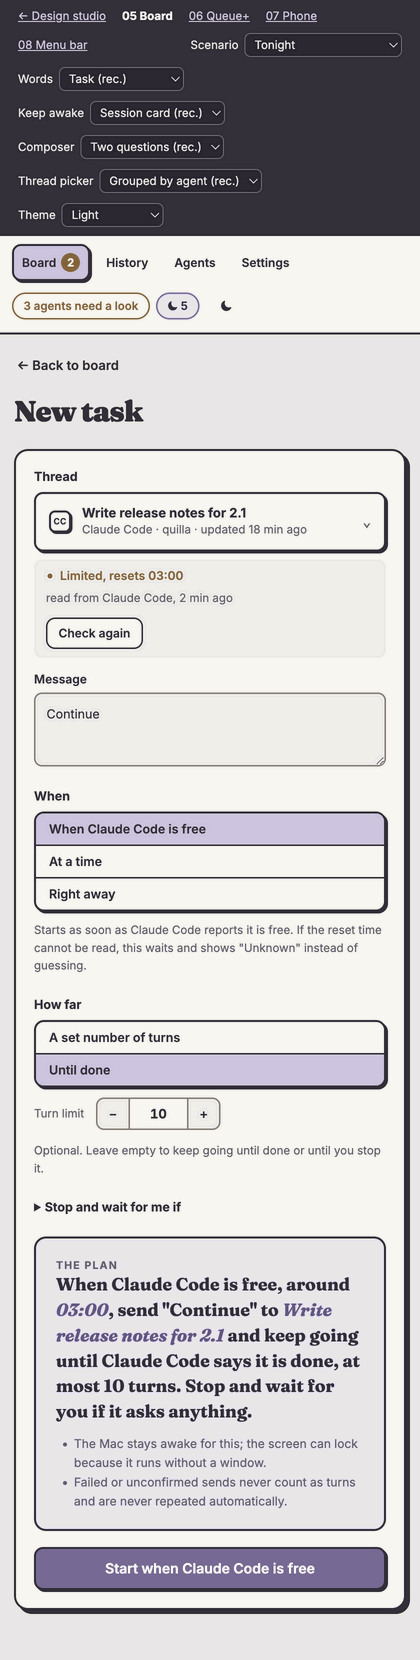
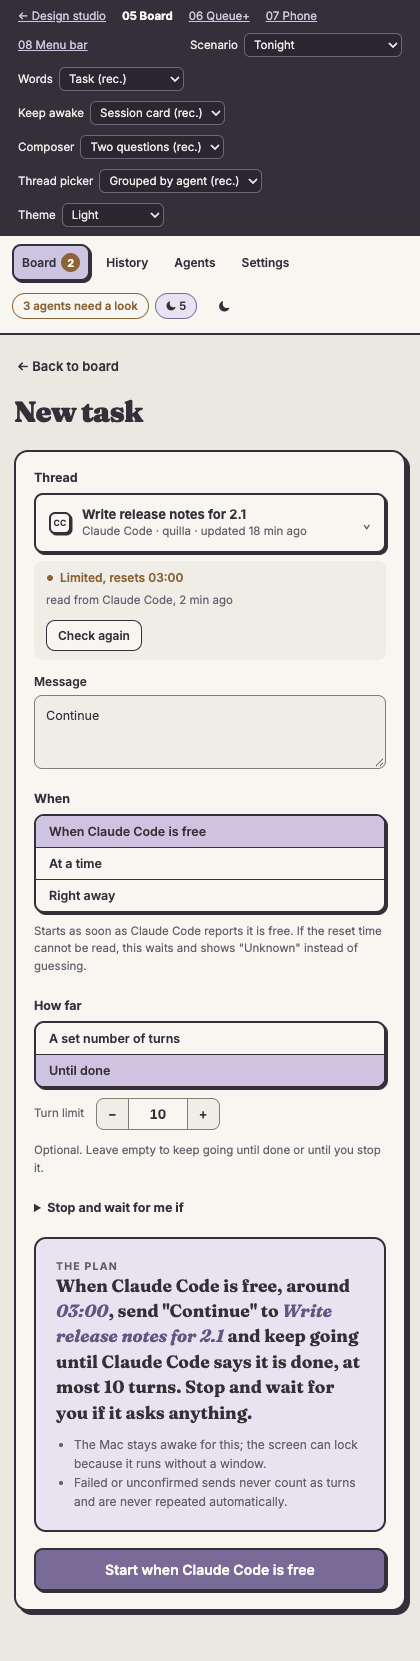
Refresh prototype screenshots and tidy composer and morning copy
Recaptured every 05-08 screenshot after the review fixes. When the chosen
agent is already free the plan and button now say to start now. The next
morning report counts both tasks that need you and no longer says
"Shift".

diff --git a/design/mockups/features.js b/design/mockups/features.js
@@ -71,7 +71,7 @@
 
   // Vocabulary alternatives: see decision D2 in docs/ui-review.md.
   const W = {
-    task: { one: 'task', many: 'tasks', One: 'Task', New: 'New task', home: 'Board', verb: (d) => d.when === 'time' ? `Schedule for ${d.time}` : d.when === 'now' ? 'Start now' : `Start when ${agentOf(d.thread).name} is free` },
+    task: { one: 'task', many: 'tasks', One: 'Task', New: 'New task', home: 'Board', verb: (d) => d.when === 'time' ? `Schedule for ${d.time}` : d.when === 'now' || agentOf(d.thread).avail === 'free' ? 'Start now' : `Start when ${agentOf(d.thread).name} is free` },
     handoff: { one: 'handoff', many: 'handoffs', One: 'Handoff', New: 'New handoff', home: 'Board', verb: () => 'Hand off' },
     schedule: { one: 'schedule', many: 'schedules', One: 'Schedule', New: 'New schedule', home: 'Upcoming', verb: () => 'Schedule' }
   }[state.words];
@@ -96,7 +96,7 @@
       delete terminal.tally;
       delete terminal.availTone;
       return terminal;
-    }).filter((t) => t.id !== 'pricing');
+    }).filter((t) => t.id !== 'pricing').map((t) => t.id === 'onboard' ? { ...t, right: 'Checking again at 07:05' } : t);
     return list;
   }
   const counts = () => { const list = tasks(); return { needs: list.filter((t) => t.group === 'needs').length, running: list.filter((t) => t.group === 'running').length, waiting: list.filter((t) => t.group === 'waiting').length, awake: list.filter((t) => t.needsAwake || t.group === 'running').length }; };
@@ -109,7 +109,7 @@
   function strip() {
     const c = counts();
     const trouble = Object.keys(agents).filter((k) => ['down', 'unknown', 'stale'].includes(agents[k].avail)).length;
-    const awakeChip = state.scenario === 'empty' ? '' : state.scenario === 'morning' ? '<button class="chip" data-nav="settings">☾ Shift ended 06:52</button>' : `<button class="chip awake" data-action="awake" aria-label="Keeping the Mac awake for ${c.awake} ${W.many}">☾ Awake · ${c.awake}</button>`;
+    const awakeChip = state.scenario === 'empty' ? '' : state.scenario === 'morning' ? '<button class="chip" data-nav="settings">☾ Kept awake until 06:52</button>' : `<button class="chip awake" data-action="awake" aria-label="Keeping the Mac awake for ${c.awake} ${W.many}">☾ Awake · ${c.awake}</button>`;
     return `<div class="strip strip-full">${Object.keys(agents).map((k) => `<button class="strip-agent" data-agent="${k}" title="${esc(agents[k].name)}: ${esc(agents[k].availText)} (${esc(agents[k].source)})" aria-label="${esc(agents[k].name)}: ${esc(agents[k].availText)}">${mono(k)}<i class="dot ${agents[k].avail}"></i></button>`).join('')}<span class="sep"></span>${awakeChip}<span class="chip" title="Paired phone last seen 2 minutes ago">▯ Phone · 2 min</span><button class="ghost" data-action="theme" aria-label="Switch to ${state.theme === 'dark' ? 'light' : 'dark'} theme">${state.theme === 'dark' ? '☀' : '☾'}</button></div>
       <div class="strip strip-compact">${trouble ? `<button class="chip warn" data-nav="agents">${trouble} agents need a look</button>` : '<button class="chip" data-nav="agents">7 agents ready</button>'}${awakeChip.replace('☾ Awake · ', '☾ ')}<button class="ghost" data-action="theme" aria-label="Switch theme">${state.theme === 'dark' ? '☀' : '☾'}</button></div>`;
   }
@@ -138,7 +138,7 @@
   function awakeCard() {
     if (state.awake !== 'session' || state.scenario === 'empty') return '';
     const c = counts();
-    if (state.scenario === 'morning') return `<section class="awake-card" aria-label="Keep-awake report"><div class="moon" aria-hidden="true">☀</div><div class="text"><h2>Good morning. The Mac stayed awake until 06:52.</h2><p>Awake for 8 h 12 m. Battery 100% to 81%, on power from 23:10. 3 ${W.many} finished, 19 turns ran, 1 needs you.</p></div><div class="act"><button data-action="ack-report">Dismiss report</button></div></section>`;
+    if (state.scenario === 'morning') return `<section class="awake-card" aria-label="Keep-awake report"><div class="moon" aria-hidden="true">☀</div><div class="text"><h2>Good morning. The Mac stayed awake until 06:52.</h2><p>Awake for 8 h 12 m. Battery 100% to 81%, on power from 23:10. 3 ${W.many} finished, 19 turns ran, 2 need you.</p></div><div class="act"><button data-action="ack-report">Dismiss report</button></div></section>`;
     if (state.scenario === 'trouble') return `<section class="awake-card attention" aria-label="Keep-awake status"><div class="moon" aria-hidden="true">☾</div><div class="text"><h2>Awake, but one ${W.one} needs the screen</h2><p>Claude desktop cannot run while the screen is locked. The 06:30 ${W.one} will wait unless you keep the display on.</p><ul class="why"><li>System stays awake</li><li>Display: needed at 06:30</li><li>Ends at 20% battery</li></ul></div><div class="act"><button class="primary" data-action="display">Keep display on from 06:25</button><button class="ghost" data-action="skip">Let it wait</button></div></section>`;
     return `<section class="awake-card" aria-label="Keep-awake status"><div class="moon" aria-hidden="true">☾</div><div class="text"><h2>Keeping this Mac awake until ${c.awake} ${W.many} finish</h2><p>Display can sleep and the screen can lock. Ends about 07:15, or as soon as nothing needs the Mac.</p><ul class="why"><li>2 running</li><li>3 waiting</li><li>Ends at 20% battery</li><li>Lid must stay open</li></ul></div><div class="act"><button data-action="stop-awake">Stop keeping awake</button><button class="ghost" data-nav="settings">Rules</button></div></section>`;
   }
@@ -187,7 +187,7 @@
   function planSentence(d) {
     if (turnError(d)) return 'Fix the turn count above to see the plan.';
     const th = threadOf(d.thread), a = agentOf(d.thread);
-    const when = d.when === 'free' ? (a.avail === 'limited' ? `When ${a.name} is free, around <em>03:00</em>,` : a.avail === 'free' ? `${a.name} is free now, so right away` : `When ${a.name} is free (availability ${a.availText.toLowerCase()}),`) : d.when === 'time' ? `At <em>${esc(d.date)} ${esc(d.time)}</em>` : 'Right away';
+    const when = d.when === 'free' ? (a.avail === 'limited' ? `When ${a.name} is free, around <em>03:00</em>,` : a.avail === 'free' ? `Right away, because ${a.name} is free now,` : `When ${a.name} is free (availability ${a.availText.toLowerCase()}),`) : d.when === 'time' ? `At <em>${esc(d.date)} ${esc(d.time)}</em>` : 'Right away';
     const far = d.far === 'turns' ? (Number(d.turns) === 1 ? 'once' : `up to ${esc(d.turns)} turns`) : !reportsCompletion(a) ? `and keep going until it stops making progress, at most ${esc(d.max)} turns` : `and keep going until ${a.name} says it is done${d.max ? `, at most ${esc(d.max)} turns` : ', with no turn limit'}`;
     return `${when} send "${esc(d.message)}" to <em>${esc(th.title)}</em> ${far}. Stop and wait for you if it asks anything.`;
   }

diff --git a/design/mockups/README.md b/design/mockups/README.md
@@ -76,3 +76,4 @@ Ideas adopted from it are credited in the review.
 `screenshots/` holds full-page captures of 05-08 in light and Bone Outline themes at 1180, 620 and 420 pixels wide, plus the Phone stage at 1000 pixels wide.
 Regenerate them from the repository root with `env -u ELECTRON_RUN_AS_NODE npx electron design/mockups/capture.cjs`.
 Committed copies were reduced to 256 colours to keep the repository small.
+Electron cannot start while the Mac's screen is locked; headless Chrome renders the same pages at the same widths and was used for the current copies.
